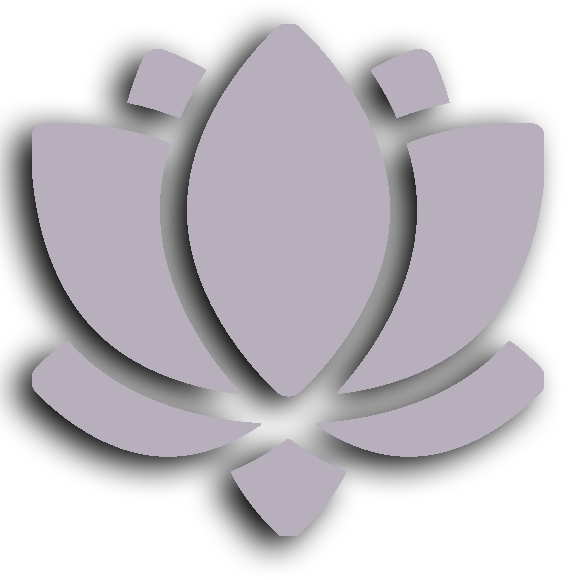
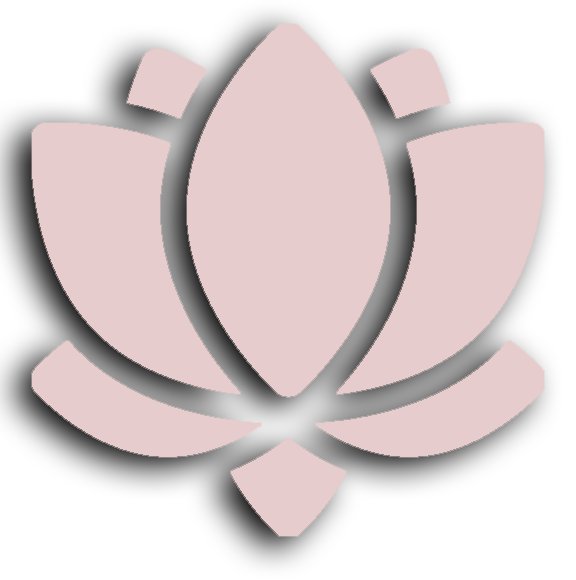
footer

diff --git a/meditation/src/index.html b/meditation/src/index.html
@@ -121,6 +121,7 @@
                         <p class="text"> Коли розум тримається подалі від своїх заклопотаностей, він стає тихим. Якщо ви не порушите цю тишу і залишитеся у ній, то виявите, що вона пронизана світлом та любов’ю, яких ви ніколи не знали; й все ж ви відразу розпізнаєте це як власну природу. Переживши цей досвід, ви більше ніколи не будете тією самою людиною; непокірний розум може порушити спокій та його бачення; але воно неодмінно повернеться, якщо й далі прикладати зусилля, до того дня, коли  всі окови розбиваються, омани та прив’язаності закінчуються й життя стає повністю зосередженим в тепер.  [65]</p>
                         <p class="text">  М: Тримайтеся відчуття «Я є» допоки не виключите все інше. Коли таким чином розум стає повністю безмовним, він сяє новим світлом й вібрує новими знаннями. Все відбувається спонтанно, вам потрібно лише триматися за «Я є». Так само, як виходячи зі сну або зі стану екстазу, ви відчуваєте, що відпочили,  але все ж не можете пояснити, чому і як ви відчуваєте себе так добре, так і при реалізації ви відчуваєте себе цілісним, довершеним,  звільненим від комплексу задоволення-болю, й все ж ви  не завжди в змозі пояснити, що сталося, чому і як. Ви можете висловити це лише в термінах заперечення: «Відтепер немає нічого, що було б не так». Тільки  в порівнянні з минулим, ви знаєте, що ви поза ним. Інакше кажучи ви просто є собою. Не намагайтеся передати це іншим. Якщо ви можете, тоді воно не справжнє. Мовчіть  й спостерігайте як воно виражає себе в дії. [69]</p>
                         <p class="text">Тримайте «Я є» у фокусі усвідомлення, пам’ятайте, що ви є, спостерігайте за собою безперервно, і несвідоме перейде у свідоме без особливих зусиль з вашого боку. Хибні бажання й страхи, помилкові ідеї, соціальні гальмування блокують й перешкоджають його вільній взаємодії зі свідомим. Щойно  вони вільно змішуються, двоє стають одним, а один стає всім. Особистість зливається зі свідком, свідок з усвідомленням, усвідомленні з  чистим буттям, але ідентичність не втрачається, втрачаються лише її обмеження. Вона перетворюється й стає істинним Я, садгуру, вічним другом й провідником. Ви не можете дійти до цього через поклоніння. Жодна зовнішня діяльність не може досягти внутрішнього Я; поклоніння та молитви залишаються лише на поверхні; щоб піти глибше  медитація є необхідною, прагнення  вийти за межі станів сну, сновидінь та неспання. На початку спроби нерегулярні, далі вони повторюються частіше, стають регулярними, тоді безперервними та інтенсивними, допоки не здолаються всі перешкоди. [86]</p>
+                        <p class="text">[Я є Те. Бесіди  з Нісарґадаттою, записані  та перекладені з маратхі на англійську Морісом Фрідманом  1973, Мумбаї]</p>
                             
                     </div>
                     <div class="block__hidden hidden--right"></div>
@@ -137,19 +138,50 @@
                 <div class="block who-am-i__block">
                     <div class="block__hidden hidden--right"></div>
                     <div class="block__text block__text--center">
-                        <p class="text"> Проникайте глибше у відчуття «Я є», і ви знайдете. 
-                        Як ви знаходите річ, яку ви загубили чи забули? Ви тримаєте це в своїй свідомості, допоки не згадаєте про неї.  Відчуття буття «Я є» - це найперше, що виникає. Запитайте себе, звідки воно приходить, або просто спокійно спостерігайте за ним. Коли розум перебуває в «Я є», непорушно, ви входите в стан, який неможливо висловити, але його можна пережити. Все, що вам потрібно зробити - це пробувати   знову й знову. Зрештою  відчуття  «Я є» завжди з вами, тільки ви додаєте до нього всілякі речі - тіло, почуття, думки, ідеї, власність і т. д. Усі ці самоідентифікації вводять в оману. Через них ви сприймаєте себе таким, яким ви не є.</p>
-                        <p class="text"> З: Тоді що я?</p>
-                        <p class="text"> М: Достатньо знати, чим ви не є. Вам не потрібно знати, що ви є. Поки знання означає опис у термінах вже відомого, сприйнятого чи концептуального, доти не може бути такого поняття, як самопізнання; тому що те, чим  ви є  неможливо описати, окрім як в термінах заперечення. Все, що ви можете сказати: «Я не це, я не те». Ви не можете сказати «Це те, чим я є». Це просто не має сенсу. Те, на що ви можете вказати як «це» або «те», не може бути  вами. </p>
-                        <p class="text"> Звісно, ви не можете бути «чимось». Ви не те, що  сприймається та  уявляється. Однак без вас не може бути ні сприйняття, ні уявлення. Ви спостерігаєте за почуттями серця, мисленням розуму,  дією тіла; сам акт сприйняття показує, що ви не те, що ви сприймаєте. Чи може бути сприйняття, переживання без вас? Переживання повинне комусь «належати». Хтось повинен прийти й оголосити це як своє переживання. Без того хто переживає, переживання не є реальним. Той, хто переживає надає реальність переживанню. Переживання, котре ви не можете мати, яка його вартість для вас? [1]</p>
-                        <p class="text"> Ви не приділяєте уваги самому собі. Ваш розум цілковито з речами, людьми та ідеями, ніколи з вашим «Я».  Приділіть собі увагу, усвідомте власне існування. Подивіться, як ви функціонуєте, спостерігайте за мотивами та результатами своїх дій. Вивчіть в'язницю, яку ви побудували навколо себе через неуважність. Знаючи чим  ви не є, ви прийдете до знання себе. Зворотний шлях до себе - через відмову та  заперечення. Одне можна сказати напевно: реальне  не є уявним, це не продукт розуму. Навіть почуття «Я є» не є безперервним, хоча це корисний вказівник; він показує, де  шукати, але не те, що шукати. Просто  добре погляньте на це. Одного разу переконавшись, що ви не можете сказати  правдиво про себе нічого окрім «Я є», й що ніщо з того, на що можна вказати, не може бути вашим «Я», потреба у «Я є» відпаде - ви більше не матимете наміру висловити те, чим ви  є. </p>
-                        <p class="text"> Все, що вам потрібно - це позбутися тенденції давати визначення самому собі. Усі визначення стосуються лише вашого тіла та його вираження. Як тільки ця одержимість тілом мине, ви спонтанно та без зусиль повернетесь до свого природного стану. [2]</p>
-                        <p class="text"> М: Чому б вам не відвернутись від переживання до того, хто переживає та не збагнути повністю важливість єдиного справжнього твердження, яке ви можете зробити: «Я є»?</p>
-                        <p class="text"> З: Як це робиться?</p>
-                        <p class="text"> М: Тут немає «як». Просто пам’ятайте про почуття «Я є», занурюйтесь в нього, поки ваш розум і почуття не стануть одним. Через повторювані спроби ви натрапите на правильний баланс уваги та переживання, й ваш розум буде міцно утверджений в думці-почутті «Я є». Що б ви не думали, говорили чи робили, це відчуття непорушного та люблячого буття залишатиметься вічно присутнім на тлі розуму. [16]</p>
-                        <p class="text"> Коли розум тримається подалі від своїх заклопотаностей, він стає тихим. Якщо ви не порушите цю тишу і залишитеся у ній, то виявите, що вона пронизана світлом та любов’ю, яких ви ніколи не знали; й все ж ви відразу розпізнаєте це як власну природу. Переживши цей досвід, ви більше ніколи не будете тією самою людиною; непокірний розум може порушити спокій та його бачення; але воно неодмінно повернеться, якщо й далі прикладати зусилля, до того дня, коли  всі окови розбиваються, омани та прив’язаності закінчуються й життя стає повністю зосередженим в тепер.  [65]</p>
-                        <p class="text">  М: Тримайтеся відчуття «Я є» допоки не виключите все інше. Коли таким чином розум стає повністю безмовним, він сяє новим світлом й вібрує новими знаннями. Все відбувається спонтанно, вам потрібно лише триматися за «Я є». Так само, як виходячи зі сну або зі стану екстазу, ви відчуваєте, що відпочили,  але все ж не можете пояснити, чому і як ви відчуваєте себе так добре, так і при реалізації ви відчуваєте себе цілісним, довершеним,  звільненим від комплексу задоволення-болю, й все ж ви  не завжди в змозі пояснити, що сталося, чому і як. Ви можете висловити це лише в термінах заперечення: «Відтепер немає нічого, що було б не так». Тільки  в порівнянні з минулим, ви знаєте, що ви поза ним. Інакше кажучи ви просто є собою. Не намагайтеся передати це іншим. Якщо ви можете, тоді воно не справжнє. Мовчіть  й спостерігайте як воно виражає себе в дії. [69]</p>
-                        <p class="text">Тримайте «Я є» у фокусі усвідомлення, пам’ятайте, що ви є, спостерігайте за собою безперервно, і несвідоме перейде у свідоме без особливих зусиль з вашого боку. Хибні бажання й страхи, помилкові ідеї, соціальні гальмування блокують й перешкоджають його вільній взаємодії зі свідомим. Щойно  вони вільно змішуються, двоє стають одним, а один стає всім. Особистість зливається зі свідком, свідок з усвідомленням, усвідомленні з  чистим буттям, але ідентичність не втрачається, втрачаються лише її обмеження. Вона перетворюється й стає істинним Я, садгуру, вічним другом й провідником. Ви не можете дійти до цього через поклоніння. Жодна зовнішня діяльність не може досягти внутрішнього Я; поклоніння та молитви залишаються лише на поверхні; щоб піти глибше  медитація є необхідною, прагнення  вийти за межі станів сну, сновидінь та неспання. На початку спроби нерегулярні, далі вони повторюються частіше, стають регулярними, тоді безперервними та інтенсивними, допоки не здолаються всі перешкоди. [86]</p>
+                        <p class="text">В.: Якою є практика?</p>
+                        <p class="text">М.: Постійний пошук «я», джерела его. З'ясуйте «Хто  я?» Чисте «я» – це реальність, абсолютне Буття-Усвідомлення-Блаженство. Якщо Воно забуте, виникають всі біди; коли ж людина міцно  утримує його, біди не впливають на людину. [17]</p>
+                        <p class="text"> В.: Хто я? Як це знайти?</p>
+                        <p class="text">М.: Запитуйте себе. Тіло (annamaya kosa)та його функції не є «я».</p> 
+                        <p class="text">Проникаючи глибше, розум (manomaya kosa) та його функції -  не є «я».</p>
+                        <p class="text">Наступний крок приводить нас до запитання: «Звідки виникають ці думки?» Думки спонтанні, поверхневі чи аналітичні. Вони діють в інтелекті. Тоді хто ж усвідомлює їх? Існування думок, їх ясне розуміння, та також їх дія стають очевидними для особистості. Аналіз приводить до висновку, що індивідуальність людини є тим, хто сприймає існування думок та їх послідовність. Ця індивідуальність - це его або, як кажуть, «Я». Vijnanamaya kosa (інтелект) - це лише оболонка «я», а не саме «я».</p>
+                        <p class="text">Допитуючись далі, виникають запитання: «Хто це «я»? Звідки воно приходить? 
+                        «Я» не усвідомлювалося уві сні. Одночасно з його підйомом сон змінюється на сновидіння або неспання. Але зараз ми не переймаємося сновидіннями. Хто я зараз, у стані неспання? Якщо я походить зі сну, то «я» було прикрите незнанням (ignorance). Таке незнаюче «я» не може бути тим, що говорять Писання або стверджують мудрі «Я за межами сну»; «Я» повинне бути тут і тепер,  те саме «Я» було  весь час у сні та сновидіннях також, без якостей цих станів. Тому «я» повинне бути необмеженою основою, що лежить в основі цих трьох станів (понад anandamaya kosa). 
+                        Коротко кажучи, «Я» за межами п'яти оболонок. Далі, той залишок, що маємо після відкидання всього, що не є я –  це «Я», Буття-Усвідомлення-Блаженство (Sat-Chit-Ananda).</p>
+                        <p class="text">В: Як це Я може бути пізнане чи усвідомлене?</p>
+                        <p class="text">М.: Вийдіть за межі теперішньої площини відносності. Відокремлене буття (Я) виникає, щоб пізнати щось окреме від себе (не-Я). Так суб’єкт усвідомлює об’єкт. Той, хто бачить –  drik, те, що бачиться –  drishia.</p>
+                        <p class="text">Повинна бути єдність, що лежить в основі цих двох, котра виникає  як «его». Це его має природу chit (інтелекту); achit (неживий предмет) є лише запереченням chit. Таким чином ця сутність, що лежить в основі, споріднена з суб’єктом, а не з об’єктом. Шукайте drik, поки вся drisya не зникне, drik буде ставати все тоншим і тоншим, поки не залишиться лише абсолютний drik. Такий процес називається drisya  vilaya (зникнення об’єктивного світу).</p>
+                        <p class="text">Ви не усвідомлюєте себе, коли ви спите, ви усвідомлюєте себе, коли не спите; коли ви прокинулися, то кажете, що спали, але ви не знали цього в стані глибокого сну. Тому, ідея відмінності виникає з свідомістю тіла; свідомість тіла виникає в певну мить; вона має початок та кінець. Щось мусить давати їй початок. Що ж  це? Це «Я»-свідомість. Хто я? Звідки я? Знайшовши це джерело, ви реалізуєте стан Абсолютної Свідомості.  [53]</p>
+                        <p class="text">В.: Хто це «Я»? Це видається лише неперервністю відчуттів-вражень</p>
+                        <p class="text">М.: Світ не є зовнішнім. Враження не можуть мати зовнішнє джерело. Тому що світ може бути сприйнятий  лише через свідомість. Світ не говорить, що він існує. Це ваше враження. Навіть це враження не є постійним й неперервним.  У глибокому сні світ не сприймається;  тому він не існує для сплячої людини. Отже, світ це наслідок его. З’ясуйте, що таке его. Віднайдення його джерела –  це остаточна ціль.  [53]</p>
+
+
+
+                        <p class="text">В.: Ми пробуємо медитувати, але прогресу в нашій медитації немає. Ми не розуміємо як це реалізувати. Чи не були б ви ласкаві допомогти нам в реалізації?</p>
+                        <p class="text">М.: Як ви медитуєте? </p>
+                        <p class="text">В.: Я починаю запитувати себе «Хто я?», усуваю тіло як не «я», дихання як не «я», розум як не «я», і я не в змозі продовжувати далі.</p>
+                        <p class="text">М.: Ну, це так далеко, наскільки сягає інтелект. Ваш спосіб є лише інтелектуальним. Дійсно, усі Писання згадують цей метод лише для того, щоб шукач пізнав Істину. На істину не можна прямо вказати. Звідси це інтелектуальний процес.</p>
+                        <p class="text">Розумієте, той, хто усуває все «не-я» не може усунути «я». Щоб сказати «я не це» або «я є те», повинно бути «я». Це «я» - це лише его або «я-думка». Після виникнення цієї «я-думки» виникають усі інші думки. Тому «я-думка» - це коренева думка. Якщо корінь витягнуто, всі інші думки одночасно викорінюються. Тому шукайте корінь «я», запитайте себе «Хто я?»; з’ясуйте його джерело. Тоді все це зникне й чисте Я (Atman) залишиться навіки.</p>
+                        <p class="text">Д.: Як це зробити?</p>
+                        <p class="text">М.: «Я» завжди там - у глибокому сні, у сновидіннях та неспанні. Той, хто уві сні -  це той самий, хто зараз говорить. Завжди є почуття «Я». Бо чи заперечуєте ви своє існування? Ні. Ви кажете «я є». Дізнайтеся, хто є.</p>
+                        <p class="text">Д.: Навіть якщо  так, я не розумію. Ви кажете, це хибне «я». Як усунути це хибне «я»?</p>
+                        <p class="text">М.: Вам не потрібно усувати хибне «я». Як «я» може усунути себе? Все, що вам потрібно зробити - це з’ясувати його походження та перебувати там. Ваші зусилля можуть поширюватися лише доти. Тоді, Те, що за межами подбає про себе. Ви там безпорадні. Ніякими зусиллями не досягнути його. </p> 
+                        <p class="text">Д .: Якщо «Я» завжди  тут і тепер, чому воно не відчувається?</p>
+                        <p class="text"> М.: Це є воно. Хто каже, що воно не відчувається? Чи справжнє «Я» говорить це, чи хибне «я»? Дослідіть це. Ви з’ясуєте, що це хибне «я». Хибне «я» - це перешкода. Його потрібно усунути, щоб істинне «Я» не було прихованим. Почуття,  що Я ще не усвідомлене, є перешкодою до усвідомлення. Насправді воно вже реалізоване; й нічого більше реалізовувати. Інакше реалізація буде новою;  якщо вона не є присутня досі, то вона має відбутися в подальшому. Те, що народжене, також помре. Якщо реалізація не вічна, вона не варта нічого. Тому те, що  ми шукаємо –  це не те, що має відбуватися заново. Це лише те, що вічне, але зараз невідоме через перешкоди; це те, що ми шукаємо. Все, що нам потрібно зробити – це усунути перешкоду. Те, що вічне, не є відоме таким через незнання. Незнання - це перешкода. Подолайте це незнання і все буде добре.
+                        Незнання тотожне «я-думці». Знайдіть її джерело й воно зникне.</p>
+                        <p class="text">«Я-думка» - це як дух, котрий хоч і не відчутний, виникає одночасно з тілом,  розквітає й зникає разом з ним. Тілесна свідомість - це хибне «я». Відмовтеся від цієї свідомості тіла. Це робиться шляхом пошуку джерела «я». Тіло не каже «я». Саме ви кажете: «я - тіло!» Дізнайтеся, хто це «я». В пошуку його джерела, воно зникне.</p>
+                        <p class="text">Д.: Тоді буде блаженство?</p>
+                        <p class="text">М.: Блаженство виникає й існує одночасно з  Буттям-Усвідомленням. Всі аргументи, що відносяться до  вічного Буття цього Блаженства, стосуються  також Блаженства. Ваша природа - це Блаженство. Незнання зараз приховує це Блаженство. Усуньте незнання, щоб звільнити Балженство. </p>
+
+                        <p class="text">Д .: Чи не повинні ми з'ясувати остаточну реальність світу, індивіда та Бога?</p>
+                        <p class="text">М.: Це все концепції «я». Вони виникають лише після появи «я-думки». Ви думали про них у своєму глибокому сні? Ви існували в глибокому сні й той самий ви зараз говорите. Якщо вони справжні, чи не  повинні вони бути уві сні також? Вони залежать лише від «я-думки». Знову ж таки чи світ каже вам: «я –  світ»? Чи тіло каже: «я - тіло»? Ви кажете: «це світ», «це тіло» й т.д. Тому це лише ваші концепції. Дізнайтеся, хто ви є, й всі ваші сумніви закінчаться.</p>
+                        <p class="text">Д.: Що стає з тілом після реалізації? Воно існує чи ні? Ми бачимо реалізованих істот, що діють як інші.</p>
+                        <p class="text">М.:  Немає потреби зараз задаватись цим питанням. Нехай воно буде поставлене після реалізації, якщо буде потреба. Щодо реалізованих істот, нехай вони самі дбають про себе. Чому ви переживаєте за них?
+                        Насправді після усвідомлення тіло та все інше не будуть здаватися відмінними від Я.</p>
+                        <p class="text">Д .: Будучи завжди Буттям-Усвідомленням-Блаженством, чому Бог ставить нас у труднощі? Чому Він створив нас?</p>
+                        <p class="text">М.: Чи приходить Бог і каже вам, що Він поставив вас у труднощі? Це ви так говорите. Це знову хибне «я». Якщо воно зникне, не буде кому сказати, що Бог створив те чи інше.
+                        Те, що є, навіть не говорить «я є». Бо чи виникають сумніви, що «мене немає»? Тільки в такому випадку слід нагадувати собі «я є людина». Але ніхто так не робить. З іншого боку, якщо  в когось виникає сумнів, чи він є корова, чи буйвол, то він  повинен нагадувати собі, що він не корова  й так далі, але «я є людина». Цього ніколи не станеться.  Аналогічно з власним існуванням та реалізацією. [Бесіда 197]</p>
+                     
+ 
                             
                     </div>
            
@@ -165,6 +197,35 @@
                 <div class="lotus"><img src="img/lotus.png" alt=""></div>
             </div>
     </section>
+    <section class="vichara">
+        <div class="wrap">
+            <h2 class="title">Atma-vichara</h2>
+            <div class="divider"><p></p></div>
+            <p class="quote"> Я-дослідження</p>
+            <div class="text__block">
+                <p class="text">Д .: Коли я читаю твори Шрі Бхагавана, то знаходжу, що дослідження, кажуть, є одним із способів реалізації.</p>
+                <p class="text">М .: Так, це Vichara (Я-дослідження)</p>
+                <p class="text">Д.: Як це робиться?</p>
+                <p class="text">Д.: Як це робиться?</p>
+                <p class="text">М.: Запитуючий повинен визнати існування свого «я». «Я Є» - це Реалізація. Продовжувати розгадувати таємницю  до Реалізації - це вічара. Вічара та Реалізація – це те саме.</p>
+                <p class="text">Д .: Воно невловиме. На що я повинен медитувати?</p>	
+                <p class="text">М.: Медитація вимагає об'єкта над яким потрібно  медитувати, тоді як у вічарі (дослідженні) існує лише суб’єкт без об’єкта. Цим медитація відрізняється від вічари.</p>
+                <p class="text">Д .: Чи не є Dhyana (медитація) одним із ефективних методів реалізації?</p>
+                <p class="text">М.: Дхьяна - це концентрація на об'єкті. Вона виконує мету –  триматися подалі різноманітних думок  й  зосередити розум на єдиній думці, яка також повинна зникнути перед реалізацією. Але реалізація - це не щось нове,  що потрібно здобути. Вона вже є тут, але  перекрита екраном з  думок.</p>
+                <p class="text">Всі наші спроби спрямовані на підняття цього екрана й тоді реалізація виявлена.
+                Якщо справжньому шукачеві порадити медитувати, багато можуть піти задоволені порадою. Але хтось з них може повернутися й запитати: «Хто є я, котрий медитує над об’єктом?». Такому потрібно сказати  знайти Себе (Self, істинне Я).  У цьому полягає завершення. Це Вічара.</p>
+                <p class="text">Д.: Чи буде сама вічара працювати за відсутності медитації?</p>
+                <p class="text">М.: Вічара – це метод й мета також. «Я є» – це мета й остаточна реальність. Триматися його зусиллям – це вічара, спонтанно  й природньо – це  реалізація. [Розмова 390]</p>
+                <p class="text">[Бесіди з Раманою Махарші, записано й перекладено на англійську, Munagala S. Venkataramiah 1935-1939]</p>
+            </div>
+            <div class="lotus"><img src="img/lotus.png" alt=""></div>
+        </div>
+    </section>
+    <footer class="footer">
+        <p class="footer__info">Meditation <span class="date"> 2019</span> Made by <span class="made"></span> Oksana Kich</span> </p>
+    </footer>
+   
+ 
 
     <script src="//code.jquery.com/jquery-1.11.0.min.js"></script>
     <script src="js/script.js"></script>

diff --git a/meditation/src/css/style.min.css b/meditation/src/css/style.min.css
@@ -1,1 +1,1 @@
-/*! normalize.css v8.0.1 | MIT License | github.com/necolas/normalize.css */html{line-height:1.15;-webkit-text-size-adjust:100%}body{margin:0}main{display:block}h1{font-size:2em;margin:.67em 0}hr{box-sizing:content-box;height:0;overflow:visible}pre{font-family:monospace,monospace;font-size:1em}a{background-color:transparent}abbr[title]{border-bottom:none;text-decoration:underline;-webkit-text-decoration:underline dotted;text-decoration:underline dotted}b,strong{font-weight:bolder}code,kbd,samp{font-family:monospace,monospace;font-size:1em}small{font-size:80%}sub,sup{font-size:75%;line-height:0;position:relative;vertical-align:baseline}sub{bottom:-.25em}sup{top:-.5em}img{border-style:none}button,input,optgroup,select,textarea{font-family:inherit;font-size:100%;line-height:1.15;margin:0}button,input{overflow:visible}button,select{text-transform:none}[type=button],[type=reset],[type=submit],button{-webkit-appearance:button}[type=button]::-moz-focus-inner,[type=reset]::-moz-focus-inner,[type=submit]::-moz-focus-inner,button::-moz-focus-inner{border-style:none;padding:0}[type=button]:-moz-focusring,[type=reset]:-moz-focusring,[type=submit]:-moz-focusring,button:-moz-focusring{outline:1px dotted ButtonText}fieldset{padding:.35em .75em .625em}legend{box-sizing:border-box;color:inherit;display:table;max-width:100%;padding:0;white-space:normal}progress{vertical-align:baseline}textarea{overflow:auto}[type=checkbox],[type=radio]{box-sizing:border-box;padding:0}[type=number]::-webkit-inner-spin-button,[type=number]::-webkit-outer-spin-button{height:auto}[type=search]{-webkit-appearance:textfield;outline-offset:-2px}[type=search]::-webkit-search-decoration{-webkit-appearance:none}::-webkit-file-upload-button{-webkit-appearance:button;font:inherit}details{display:block}summary{display:list-item}template{display:none}[hidden]{display:none}@font-face{font-family:vivaldi;src:url(../fonts/vivaldi.ttf);font-weight:400;font-style:normal}@font-face{font-family:'Montserrat Alternates',sans-serif;font-family:Montserrat,sans-serif;font-family:'Open Sans',sans-serif;font-family:Lobster,cursive;font-family:Comfortaa,cursive;font-family:'Marck Script',cursive;font-family:'Bad Script',cursive}html{font-size:16px;color:#000}body{font-family:'Open Sans',sans-serif;overflow-wrap:break-word;word-wrap:break-word}.container{min-width:320px;max-width:100%;padding:0 0;box-sizing:border-box;margin:0 auto;background:#fff}.wrap{min-width:0;max-width:1280px;padding:0 15px;box-sizing:border-box;margin:0 auto;box-sizing:border-box}.header{background:url(../img/image.jpg) center center no-repeat;background-size:cover;padding:10px 0 250px 0;position:relative}.header::after{content:"";background:rgba(0,0,0,.342);top:0;left:0;position:absolute;z-index:1;width:100%;height:100%}.header__wrap{display:flex;justify-content:space-between;z-index:3}.header__logo{display:flex;align-items:center;z-index:2}.logo__img{width:80px;height:auto}.logo__name{color:#fff;font-family:'Montserrat Alternates',sans-serif;font-size:20px;margin-left:20px}.header__lang{display:flex;justify-content:space-between;align-items:center;z-index:2;order:3}.header__lang a{text-decoration:none;color:#fff;border-bottom:1px solid transperant;display:block}.header__lang a:active,.header__lang a:hover{border-bottom:1px solid #e74c3c}.header__lang a:active span,.header__lang a:hover span{color:#e74c3c}.header__lang a:first-child{margin-right:0;padding-right:0}.header__lang a:last-child{margin-left:5px}.header__lang a span{font-size:20px;color:#fff}.header__lang a .lang__divider{margin-left:5px;border-right:2px solid #9f9398;line-height:1;font-size:14px}.header__quote{max-width:900px;margin:250px auto;position:relative;z-index:2;padding-right:0;padding-left:0}.header__quote p{font-size:30px;color:#fff;text-align:center;font-family:'Open Sans',sans-serif;font-weight:300}.header__quote span{display:block;margin:0 auto;font-family:Montserrat,sans-serif;font-size:20px;font-weight:300;text-align:center;color:#fff;letter-spacing:1.2}.divider{display:block;width:7px;position:relative;margin:20px auto}.divider p{text-align:center}.divider p::after{content:"";width:7px;height:7px;background-color:#e74c3c;display:block;border-radius:50%}.divider::after,.divider::before{content:"";width:80px;height:1px;background-color:#999;display:block;position:absolute;top:50%;transform:translateY(-1px)}.divider::before{left:-90px}.divider::after{right:-90px}@media (max-width:980px){.header{padding:10px 0 150px 0}.header__quote{width:96%;padding-left:2%;padding-right:2%}.header__quote p{font-size:25px}}@media (max-width:768px){.header__lang{position:absolute;top:31px;right:80px}.header__wrap{padding:0 10px;flex-wrap:wrap}.header__logo{display:flex;justify-content:flex-start;align-items:center}.header__logo img{width:60px}.header__logo .logo__name{margin-left:5px}.header__lang{margin-left:-20px;order:2}.header__menu{margin-top:10px;justify-content:center;padding-left:0;order:3;margin:0 auto;display:none}.menu__element{padding:20px 20px}.menu__element a{padding:5px 0}.header__quote{max-width:900px;margin:180px 0 80px}.header__quote p{margin-bottom:30px}}@media (max-width:480px){.header__quote{margin:145px 0 125px}.header__quote p{margin-bottom:20px;font-size:20px}.header__quote span{display:16px}}@media (max-width:360px){.header__wrap{min-width:0}.logo__name{margin-left:5px}}.divider{display:block;width:7px;position:relative;margin:20px auto}.divider p{text-align:center}.divider p::after{content:"";width:7px;height:7px;background-color:#e74c3c;display:block;border-radius:50%}.divider::after,.divider::before{content:"";width:80px;height:1px;background-color:#999;display:block;position:absolute;top:50%;transform:translateY(-1px)}.divider::before{left:-90px}.divider::after{right:-90px}.menu{position:relative;z-index:3;width:900px;align-items:center;padding-top:17px}.menu__list{list-style:none;display:flex;justify-content:center;align-items:center;z-index:3}.menu__list .menu__element{transition-duration:.5s;transition-property:background-color;padding:0 20px;list-style:none}.menu__list .menu__link{text-decoration:none}.menu__list .menu__link:focus{color:#fab88c}.menu__list a{text-decoration:none;color:#fff;font-family:'Montserrat Alternates',sans-serif;font-size:20px;border-top:1px solid transparent;border-bottom:1px solid transparent;padding-bottom:5px;font-weight:400}.menu__list a:hover{border-bottom:1px solid #fab88c}.menu__element{padding:10px;transition-duration:.5s;transition-property:background-color}.menu__element:last-child{margin-right:100px}.menu__link{text-decoration:none;color:#fff;font-weight:600}.menu__link:focus{color:#fff}.menu__link:hover{color:#fab88c}.menu__list--active{display:flex;width:900px;justify-content:space-between;align-items:center;z-index:1;position:absolute;right:-10px;top:0}@media (max-width:768px){menu{width:900px}.menu__list{display:none}.menu__list--active{flex-direction:column;justify-content:space-around;align-items:center;width:100vw;height:100vh;background:#9f9398;z-index:3;margin-top:-75px;display:flex}.menu__list--active .menu__element{margin-top:25px;padding:20px 0}.menu__list--active .menu__element:last-child{margin-right:0}.menu__list--active .menu__element:hover{text-align:center;vertical-align:center}.menu__list--active .menu__element:hover .menu__link{border-bottom:1px solid #fff}.menu__list--active .menu__link{color:#fff}}@media (max-width:580px){.menu__list--active{align-items:center}}.hamburger{background:0 0;display:block;cursor:pointer;border:none;position:absolute;width:50px;height:40px;right:-6px;top:-55px;outline:0;z-index:2}.hamburger:hover .hamburger__element{background-color:#9f9398}.hamburger__element{width:30px;height:2px;background-color:#fff;display:block;margin:10px auto}.hamburger--active{position:absolute;z-index:1;outline:0;top:-50px}.hamburger--active .hamburger__element{margin:-2px auto;background-color:#ccc}.hamburger--active .hamburger__element:nth-child(1){transform:rotate(45deg)}.hamburger--active .hamburger__element:nth-child(2){transform:rotate(-45deg)}.hamburger--active .hamburger__element:nth-child(3),.hamburger--active .hamburger__element:nth-child(4){display:none}.hamburger--active:hover .hamburger__element{background-color:#898a8b}@media (max-width:768px){.hamburger--active{z-index:4}}.title{font-size:30px;font-weight:600;font-family:'Montserrat Alternates',sans-serif;color:#353439;text-align:center}.quote{text-align:center;width:40%;display:block;margin:0 auto;font-weight:400;color:#5d5d5d}.lotus{margin:0 auto;margin-top:50px;text-align:center}.lotus img{height:100%;width:50px;opacity:.8}@media (max-width:980px){.quote{width:60%}}@media (max-width:768px){.quote{width:80%}}@media (max-width:480px){.quote{width:90%}}.text__block{width:700px;margin:0 auto}.text{color:#353739;line-height:1.5;text-align:justify;text-indent:5%}.text--dialog{text-indent:0}.dialog{color:#4b4a4a;font-weight:600}@media (max-width:768px){.text__block{width:100%}}.section{padding:80px 0 0 0}@media (max-width:768px){.section{padding:30px 0 0 0}}.block{margin-top:30px;display:flex}.block__photo{flex-basis:19%;align-items:top}.block__photo img{width:100%;box-shadow:0 14px 28px rgba(0,0,0,.25),0 10px 10px rgba(0,0,0,.22)}.block__photo .name{text-align:center;font-weight:700;color:#353739;line-height:.4;font-family:Montserrat,sans-serif}.block__photo .years{text-align:center;font-weight:400;color:#5d5d5d;line-height:.2}.block__photo .place{text-align:center;font-weight:300;color:#5d5d5d;line-height:.2}.block__photo--left{margin-right:20px}.block__photo--right{margin-left:20px}.block__text--center{flex-basis:58%}.block__text--center p:first-child{margin-top:0}.block__hidden{flex-basis:19%}
+/*! normalize.css v8.0.1 | MIT License | github.com/necolas/normalize.css */html{line-height:1.15;-webkit-text-size-adjust:100%}body{margin:0}main{display:block}h1{font-size:2em;margin:.67em 0}hr{box-sizing:content-box;height:0;overflow:visible}pre{font-family:monospace,monospace;font-size:1em}a{background-color:transparent}abbr[title]{border-bottom:none;text-decoration:underline;-webkit-text-decoration:underline dotted;text-decoration:underline dotted}b,strong{font-weight:bolder}code,kbd,samp{font-family:monospace,monospace;font-size:1em}small{font-size:80%}sub,sup{font-size:75%;line-height:0;position:relative;vertical-align:baseline}sub{bottom:-.25em}sup{top:-.5em}img{border-style:none}button,input,optgroup,select,textarea{font-family:inherit;font-size:100%;line-height:1.15;margin:0}button,input{overflow:visible}button,select{text-transform:none}[type=button],[type=reset],[type=submit],button{-webkit-appearance:button}[type=button]::-moz-focus-inner,[type=reset]::-moz-focus-inner,[type=submit]::-moz-focus-inner,button::-moz-focus-inner{border-style:none;padding:0}[type=button]:-moz-focusring,[type=reset]:-moz-focusring,[type=submit]:-moz-focusring,button:-moz-focusring{outline:1px dotted ButtonText}fieldset{padding:.35em .75em .625em}legend{box-sizing:border-box;color:inherit;display:table;max-width:100%;padding:0;white-space:normal}progress{vertical-align:baseline}textarea{overflow:auto}[type=checkbox],[type=radio]{box-sizing:border-box;padding:0}[type=number]::-webkit-inner-spin-button,[type=number]::-webkit-outer-spin-button{height:auto}[type=search]{-webkit-appearance:textfield;outline-offset:-2px}[type=search]::-webkit-search-decoration{-webkit-appearance:none}::-webkit-file-upload-button{-webkit-appearance:button;font:inherit}details{display:block}summary{display:list-item}template{display:none}[hidden]{display:none}@font-face{font-family:vivaldi;src:url(../fonts/vivaldi.ttf);font-weight:400;font-style:normal}@font-face{font-family:'Montserrat Alternates',sans-serif;font-family:Montserrat,sans-serif;font-family:'Open Sans',sans-serif;font-family:Lobster,cursive;font-family:Comfortaa,cursive;font-family:'Marck Script',cursive;font-family:'Bad Script',cursive}html{font-size:16px;color:#000}body{font-family:'Open Sans',sans-serif;overflow-wrap:break-word;word-wrap:break-word}.container{min-width:320px;max-width:100%;padding:0 0;box-sizing:border-box;margin:0 auto;background:#fff}.wrap{min-width:0;max-width:1280px;padding:0 15px;box-sizing:border-box;margin:0 auto;box-sizing:border-box}.header{background:url(../img/image.jpg) center center no-repeat;background-size:cover;padding:10px 0 250px 0;position:relative}.header::after{content:"";background:rgba(0,0,0,.342);top:0;left:0;position:absolute;z-index:1;width:100%;height:100%}.header__wrap{display:flex;justify-content:space-between;z-index:3}.header__logo{display:flex;align-items:center;z-index:2}.logo__img{width:80px;height:auto}.logo__name{color:#fff;font-family:'Montserrat Alternates',sans-serif;font-size:20px;margin-left:20px}.header__lang{display:flex;justify-content:space-between;align-items:center;z-index:2;order:3}.header__lang a{text-decoration:none;color:#fff;border-bottom:1px solid transperant;display:block}.header__lang a:active,.header__lang a:hover{border-bottom:1px solid #e74c3c}.header__lang a:active span,.header__lang a:hover span{color:#e74c3c}.header__lang a:first-child{margin-right:0;padding-right:0}.header__lang a:last-child{margin-left:5px}.header__lang a span{font-size:20px;color:#fff}.header__lang a .lang__divider{margin-left:5px;border-right:2px solid #9f9398;line-height:1;font-size:14px}.header__quote{max-width:900px;margin:250px auto;position:relative;z-index:2;padding-right:0;padding-left:0}.header__quote p{font-size:30px;color:#fff;text-align:center;font-family:'Open Sans',sans-serif;font-weight:300}.header__quote span{display:block;margin:0 auto;font-family:Montserrat,sans-serif;font-size:20px;font-weight:300;text-align:center;color:#fff;letter-spacing:1.2}.divider{display:block;width:7px;position:relative;margin:20px auto}.divider p{text-align:center}.divider p::after{content:"";width:7px;height:7px;background-color:#e74c3c;display:block;border-radius:50%}.divider::after,.divider::before{content:"";width:80px;height:1px;background-color:#999;display:block;position:absolute;top:50%;transform:translateY(-1px)}.divider::before{left:-90px}.divider::after{right:-90px}@media (max-width:980px){.header{padding:10px 0 150px 0}.header__quote{width:96%;padding-left:2%;padding-right:2%}.header__quote p{font-size:25px}}@media (max-width:768px){.header__lang{position:absolute;top:31px;right:80px}.header__wrap{padding:0 10px;flex-wrap:wrap}.header__logo{display:flex;justify-content:flex-start;align-items:center}.header__logo img{width:60px}.header__logo .logo__name{margin-left:5px}.header__lang{margin-left:-20px;order:2}.header__menu{margin-top:10px;justify-content:center;padding-left:0;order:3;margin:0 auto;display:none}.menu__element{padding:20px 20px}.menu__element a{padding:5px 0}.header__quote{max-width:900px;margin:180px 0 80px}.header__quote p{margin-bottom:30px}}@media (max-width:480px){.header__quote{margin:145px 0 125px}.header__quote p{margin-bottom:20px;font-size:20px}.header__quote span{display:16px}}@media (max-width:360px){.header__wrap{min-width:0}.logo__name{margin-left:5px}}.divider{display:block;width:7px;position:relative;margin:20px auto}.divider p{text-align:center}.divider p::after{content:"";width:7px;height:7px;background-color:#e74c3c;display:block;border-radius:50%}.divider::after,.divider::before{content:"";width:80px;height:1px;background-color:#999;display:block;position:absolute;top:50%;transform:translateY(-1px)}.divider::before{left:-90px}.divider::after{right:-90px}.menu{position:relative;z-index:3;width:900px;align-items:center;padding-top:17px}.menu__list{list-style:none;display:flex;justify-content:center;align-items:center;z-index:3}.menu__list .menu__element{transition-duration:.5s;transition-property:background-color;padding:0 20px;list-style:none}.menu__list .menu__link{text-decoration:none}.menu__list .menu__link:focus{color:#fab88c}.menu__list a{text-decoration:none;color:#fff;font-family:'Montserrat Alternates',sans-serif;font-size:20px;border-top:1px solid transparent;border-bottom:1px solid transparent;padding-bottom:5px;font-weight:400}.menu__list a:hover{border-bottom:1px solid #fab88c}.menu__element{padding:10px;transition-duration:.5s;transition-property:background-color}.menu__element:last-child{margin-right:100px}.menu__link{text-decoration:none;color:#fff;font-weight:600}.menu__link:focus{color:#fff}.menu__link:hover{color:#fab88c}.menu__list--active{display:flex;width:900px;justify-content:space-between;align-items:center;z-index:1;position:absolute;right:-10px;top:0}@media (max-width:768px){menu{width:900px}.menu__list{display:none}.menu__list--active{flex-direction:column;justify-content:space-around;align-items:center;width:100vw;height:100vh;background:#9f9398;z-index:3;margin-top:-75px;display:flex}.menu__list--active .menu__element{margin-top:25px;padding:20px 0}.menu__list--active .menu__element:last-child{margin-right:0}.menu__list--active .menu__element:hover{text-align:center;vertical-align:center}.menu__list--active .menu__element:hover .menu__link{border-bottom:1px solid #fff}.menu__list--active .menu__link{color:#fff}}@media (max-width:580px){.menu__list--active{align-items:center}}.hamburger{background:0 0;display:block;cursor:pointer;border:none;position:absolute;width:50px;height:40px;right:-6px;top:-55px;outline:0;z-index:2}.hamburger:hover .hamburger__element{background-color:#9f9398}.hamburger__element{width:30px;height:2px;background-color:#fff;display:block;margin:10px auto}.hamburger--active{position:absolute;z-index:1;outline:0;top:-50px}.hamburger--active .hamburger__element{margin:-2px auto;background-color:#ccc}.hamburger--active .hamburger__element:nth-child(1){transform:rotate(45deg)}.hamburger--active .hamburger__element:nth-child(2){transform:rotate(-45deg)}.hamburger--active .hamburger__element:nth-child(3),.hamburger--active .hamburger__element:nth-child(4){display:none}.hamburger--active:hover .hamburger__element{background-color:#898a8b}@media (max-width:768px){.hamburger--active{z-index:4}}.title{font-size:30px;font-weight:600;font-family:'Montserrat Alternates',sans-serif;color:#353439;text-align:center}.quote{text-align:center;width:40%;display:block;margin:0 auto;font-weight:400;color:#5d5d5d}.lotus{margin:0 auto;margin-top:50px;text-align:center}.lotus img{height:100%;width:50px}@media (max-width:980px){.quote{width:60%}}@media (max-width:768px){.quote{width:80%}}@media (max-width:480px){.quote{width:90%}}.text__block{width:725px;margin:0 auto}.text{color:#353739;line-height:1.5;text-align:justify;text-indent:5%}.text--dialog{text-indent:0}.dialog{color:#4b4a4a;font-weight:600}@media (max-width:768px){.text__block{width:100%}}.section{padding:80px 0 0 0}@media (max-width:768px){.section{padding:30px 0 0 0}}.block{margin-top:30px;display:flex;flex-wrap:wrap}.block__photo{flex-basis:19%;align-items:top}.block__photo img{width:100%;box-shadow:0 14px 28px rgba(0,0,0,.25),0 10px 10px rgba(0,0,0,.22)}.block__photo .name{text-align:center;font-weight:700;color:#353739;line-height:.4;font-family:Montserrat,sans-serif}.block__photo .years{text-align:center;font-weight:400;color:#5d5d5d;line-height:.2}.block__photo .place{text-align:center;font-weight:300;color:#5d5d5d;line-height:.2}.block__photo--left{margin-right:20px}.block__photo--right{margin-left:20px}.block__text--center{flex-basis:58%}.block__text--center p:first-child{margin-top:0}.block__hidden{flex-basis:19%}@media (max-width:980px){.block__photo{flex-basis:50%;margin:0 auto}.block__text--center{flex-basis:100%}.who-am-i__block{flex-direction:column-reverse}}@media (max-width:480px){.block__photo{flex-basis:80%;margin:0 auto}.block__text--center{flex-basis:100%}}

diff --git a/meditation/src/sass/blocks/_block.scss b/meditation/src/sass/blocks/_block.scss
@@ -1,6 +1,7 @@
 .block {
     margin-top: 30px;
     display: flex;
+    flex-wrap: wrap;
 }
 
 .block__photo  {
@@ -52,4 +53,25 @@
 }
 .block__hidden {
     flex-basis: 19%;
+}
+@media (max-width: 980px) {
+    .block__photo {
+     flex-basis: 50%;
+     margin: 0 auto;
+    }
+    .block__text--center {
+        flex-basis: 100%;
+    }
+    .who-am-i__block {
+        flex-direction: column-reverse;
+    }
+}
+@media (max-width: 480px) {
+    .block__photo {
+     flex-basis: 80%;
+     margin: 0 auto;
+    }
+    .block__text--center {
+        flex-basis: 100%;
+    }
 }

diff --git a/meditation/src/sass/blocks/_text.scss b/meditation/src/sass/blocks/_text.scss
@@ -1,5 +1,5 @@
 .text__block {
-    width: 700px;
+    width: 725px;
     margin: 0 auto;
 }
 
@@ -20,7 +20,7 @@
 
 @media (max-width: 768px) {
     .text__block {
-        width: 100% ;
+        width: 100%;
         
     }
 }

diff --git a/meditation/src/sass/blocks/_title.scss b/meditation/src/sass/blocks/_title.scss
@@ -22,7 +22,6 @@
     img {
         height: 100%;
         width: 50px;
-        opacity: 0.8;
     }
 }
 @media (max-width: 980px) {
